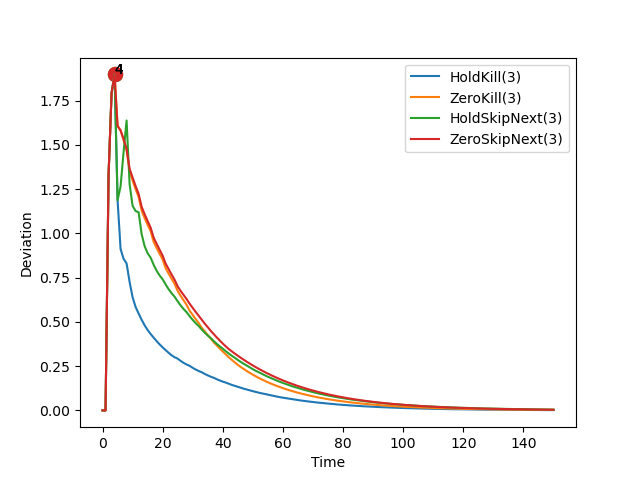
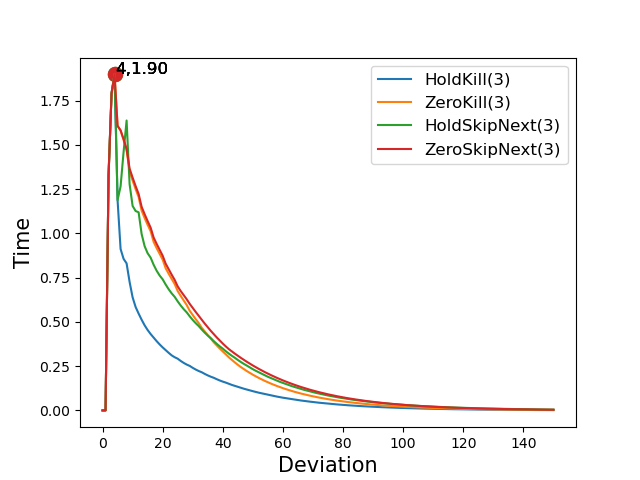
Viz changes

diff --git a/lib/Visualization.py b/lib/Visualization.py
@@ -296,15 +296,15 @@ class VizRS:
         T=len(devLists[0])
         X=list(range(T))
         plt.figure()
-        plt.xlabel("Time")
-        plt.ylabel("Deviation")
+        plt.xlabel("Deviation",fontsize=15)
+        plt.ylabel("Time",fontsize=15)
 
         for (lb,devList,maxT) in zip(labels,devLists,maxTLists):
             plt.plot(X,devList,label=lb)
             plt.scatter(maxT,devList[maxT],s=100)
-            plt.text(maxT,devList[maxT],str(maxT))
+            plt.text(maxT+0.1,devList[maxT],str(maxT)+","+"{:.2f}".format(devList[maxT]),fontsize='large')
 
-        plt.legend()
+        plt.legend(fontsize='large')
         plt.savefig(OUTPUT_PATH+'/'+fname+"_all_devs")
 
 

diff --git a/src/ECRTS21CaseStudy.py b/src/ECRTS21CaseStudy.py
@@ -512,7 +512,7 @@ if False:
     deadlines=[2,4,8,16]
     FSMBased.compHoldSkipAny(P,deadlines,T)
 
-if True:
+if False:
     PList=[]
     K=4
     '''for i in range(K):

diff --git a/src/RCCaseStudy.py b/src/RCCaseStudy.py
@@ -522,7 +522,7 @@ if False:
     deadlines=[2,4,8,16]
     FSMBased.compHoldSkipAny(P,deadlines,T)
 
-if False:
+if True:
     PList=[]
     K=4
     '''for i in range(K):
